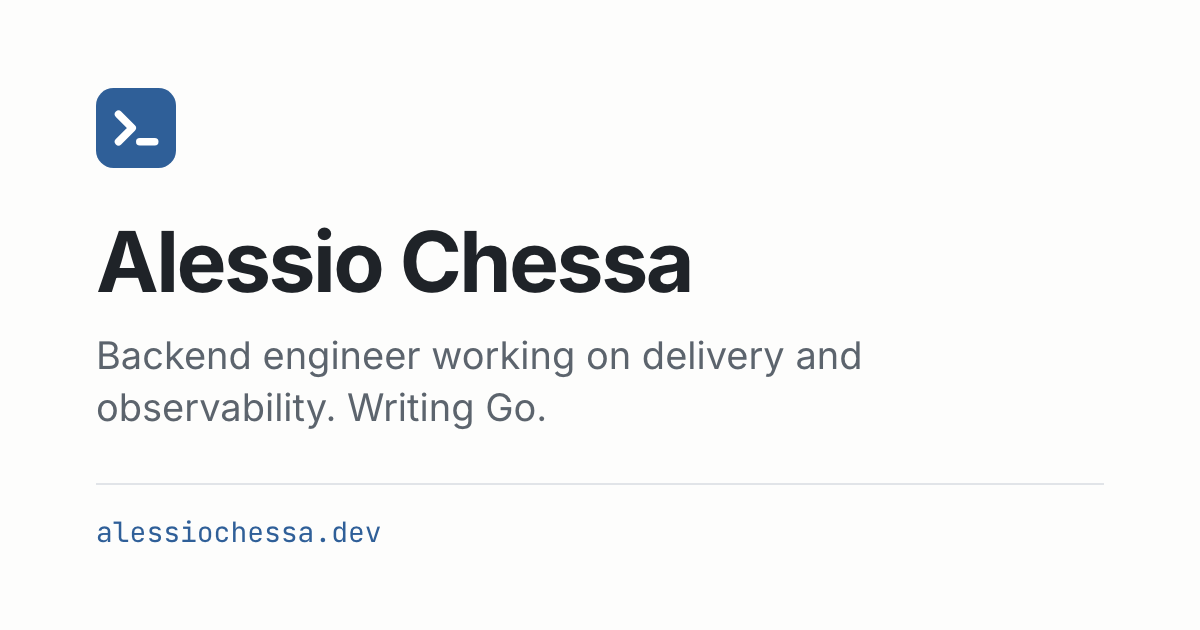
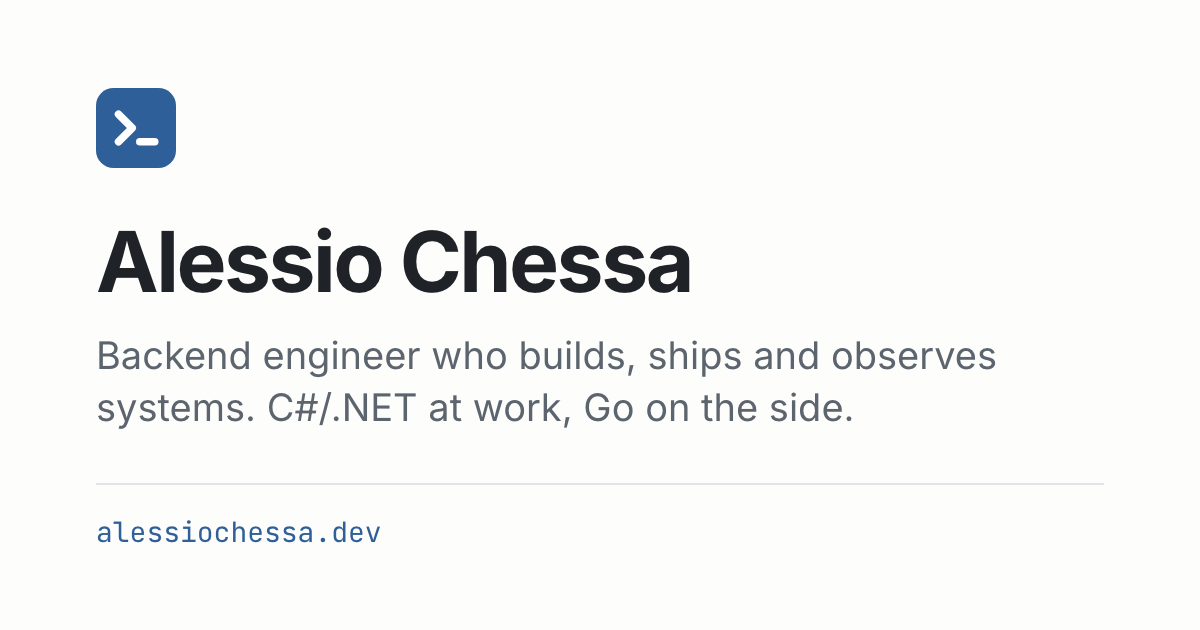
feat: new tagline in the site description and preview image
"Backend engineer who builds, ships and observes systems. C#/.NET at
work, Go on the side." in params.description (home meta description and
og:image alt) and in tools/og-image.html; og.png regenerated.

Changed region(s): [[0.0617, 0.5429, 0.8325, 0.6937]]

diff --git a/tools/og-image.html b/tools/og-image.html
@@ -65,7 +65,7 @@
 <body>
   <img src="../static/favicon.svg" alt="">
   <h1>Alessio Chessa</h1>
-  <p>Backend engineer working on delivery and observability. Writing Go.</p>
+  <p>Backend engineer who builds, ships and observes systems. C#/.NET at work, Go on the side.</p>
   <footer>alessiochessa.dev</footer>
 </body>
 </html>
